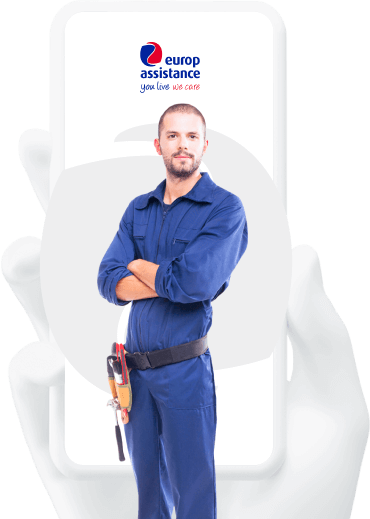
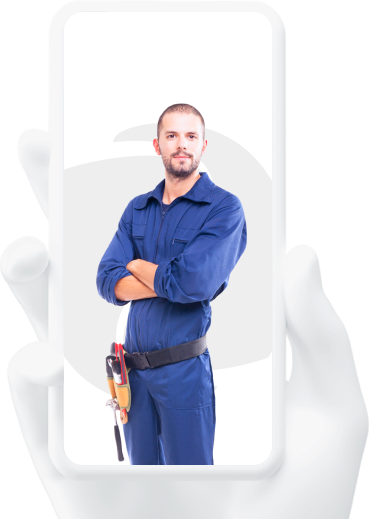
adding plus animation and some refactoring

diff --git a/src/home-help.html b/src/home-help.html
@@ -41,7 +41,7 @@ title: Europe Assistance | Home Help
                     <svg width="31" height="31" viewBox="0 0 31 31" fill="none" xmlns="http://www.w3.org/2000/svg">
                         <path d="M24.671 19.284C24.2696 19.6935 24.0852 20.2857 24.1766 20.8665L25.5544 28.8933C25.6707 29.5737 25.3979 30.2621 24.857 30.6553C24.327 31.0632 23.6218 31.1121 23.0437 30.7858L16.1797 27.0171C15.941 26.8834 15.676 26.8116 15.4048 26.8034H14.9848C14.8391 26.8263 14.6965 26.8752 14.5664 26.9503L7.70075 30.7369C7.36135 30.9164 6.977 30.98 6.6004 30.9164C5.68292 30.7336 5.07074 29.8135 5.22108 28.8428L6.6004 20.8159C6.69183 20.2302 6.50741 19.6347 6.10601 19.2187L0.509691 13.5086C0.0416521 13.0306 -0.121077 12.3127 0.0927954 11.665C0.300468 11.0189 0.830499 10.5475 1.47057 10.4414L9.17306 9.26512C9.75888 9.20149 10.2734 8.82625 10.5369 8.27155L13.9309 0.946253C14.0115 0.783106 14.1154 0.63301 14.2409 0.505756L14.3804 0.391553C14.4532 0.306716 14.5369 0.236563 14.6299 0.179462L14.7988 0.114203L15.0623 0H15.7148C16.2975 0.0636273 16.8105 0.430708 17.0786 0.978882L20.5176 8.27155C20.7655 8.80504 21.2475 9.17539 21.8039 9.26512L29.5064 10.4414C30.1573 10.5393 30.7013 11.0124 30.9167 11.665C31.1197 12.3192 30.9446 13.0371 30.4673 13.5086L24.671 19.284Z" fill="#00239C"/>
                     </svg>
-                    <h2 class="g-heading">Пакет <b>премиум</b></h2>
+                    <h2 class="g-heading">Пакет <b>стандарт</b></h2>
                 </div>
                 <span class="animate__fadeIn animate__animated wow">Информационная поддержка</span>
                 <p class="animate__fadeIn animate__animated wow">Предоставление информации о контактах, часах работы, услугах Управляющей компании в экстренных ситуациях</p>
@@ -74,7 +74,7 @@ title: Europe Assistance | Home Help
                     <svg width="31" height="31" viewBox="0 0 31 31" fill="none" xmlns="http://www.w3.org/2000/svg">
                         <path d="M24.671 19.284C24.2696 19.6935 24.0852 20.2857 24.1766 20.8665L25.5544 28.8933C25.6707 29.5737 25.3979 30.2621 24.857 30.6553C24.327 31.0632 23.6218 31.1121 23.0437 30.7858L16.1797 27.0171C15.941 26.8834 15.676 26.8116 15.4048 26.8034H14.9848C14.8391 26.8263 14.6965 26.8752 14.5664 26.9503L7.70075 30.7369C7.36135 30.9164 6.977 30.98 6.6004 30.9164C5.68292 30.7336 5.07074 29.8135 5.22108 28.8428L6.6004 20.8159C6.69183 20.2302 6.50741 19.6347 6.10601 19.2187L0.509691 13.5086C0.0416521 13.0306 -0.121077 12.3127 0.0927954 11.665C0.300468 11.0189 0.830499 10.5475 1.47057 10.4414L9.17306 9.26512C9.75888 9.20149 10.2734 8.82625 10.5369 8.27155L13.9309 0.946253C14.0115 0.783106 14.1154 0.63301 14.2409 0.505756L14.3804 0.391553C14.4532 0.306716 14.5369 0.236563 14.6299 0.179462L14.7988 0.114203L15.0623 0H15.7148C16.2975 0.0636273 16.8105 0.430708 17.0786 0.978882L20.5176 8.27155C20.7655 8.80504 21.2475 9.17539 21.8039 9.26512L29.5064 10.4414C30.1573 10.5393 30.7013 11.0124 30.9167 11.665C31.1197 12.3192 30.9446 13.0371 30.4673 13.5086L24.671 19.284Z" fill="#E4002B"/>
                     </svg>                        
-                    <h2 class="g-heading">Пакет <b>стандарт</b></h2>
+                    <h2 class="g-heading">Пакет <b>премиум</b></h2>
                 </div>
                 <span class="s-short animate__fadeIn animate__animated wow">
                     Включает все сервисы
@@ -243,7 +243,10 @@ title: Europe Assistance | Home Help
                 </li>
             </ul>
         </div>
-        <img class="mockup__img lozad" data-src="./assets/images/mockup.png" data-srcset=""="./assets/images/mockup@2x.png" alt="mockup">
+        <div class="mockup__img">
+            <img class="mockup__img-hand lozad" data-src="./assets/images/mockup.png" data-srcset=""="./assets/images/mockup@2x.png" alt="mockup">
+            <img class="mockup__img-logo animate__fadeIn animate__animated wow" src="./assets/images/svg/logo.svg" alt="logo">
+        </div>
     </div>
 </section>
 

diff --git a/src/cybersecurity.html b/src/cybersecurity.html
@@ -109,7 +109,8 @@ title: Europe Assistance | Cybersecurity
             </div>
             <p class="services__table-item-wrapper-paragraph animate__fadeIn animate__animated wow">
                 После того как пользователь занес данные в систему, проводится их автоматический регулярный мониторинг не только в видимой сети, но и в глубоком теневом интернете, черном рынке (dark web), куда попадает украденная и скомпрометированная информация, для ее последующего нелегального использования.
-                <br><br>
+            </p>
+            <p class="services__table-item-wrapper-paragraph animate__fadeIn animate__animated wow">
                 Проводится мониторинг сотен хакеров, исследований, новостных сайтов, хакерских форумов и форумов в dark web на предмет утечки данных. Эксперты по компьютерной безопасности постоянно обновляют алгоритмы, интегрируя их с информацией о новейших методах, которыми пользуются киберпреступники
             </p>
         </div>
@@ -123,8 +124,10 @@ title: Europe Assistance | Cybersecurity
             </div>
             <p class="services__table-item-wrapper-paragraph animate__fadeIn animate__animated wow">
                 Если возникает подозрение о попытке несанкционированного доступа к данным клиента либо их обнаружения на черном рынке, клиенту моментально отправляют уведомление по контактам, оставленным во время регистрации, – SMS или письмо на электронную почту – с инструкцией о незамедлительных действиях
-                <br><br>
-                Онлайн-портал показывает оповещения, уровень риска и позволяет добавлять новую персональную информацию для мониторинга</p>
+            </p>
+            <p class="services__table-item-wrapper-paragraph animate__fadeIn animate__animated wow">
+                Если возникает подозрение о попытке несанкционированного доступа к данным клиента либо их обнаружения на черном рынке, клиенту моментально отправляют уведомление по контактам, оставленным во время регистрации, – SMS или письмо на электронную почту – с инструкцией о незамедлительных действиях
+            </p>
         </div>
     </div>
 </section>

diff --git a/src/assets/scss/blocks/accordion.scss b/src/assets/scss/blocks/accordion.scss
@@ -90,6 +90,7 @@
             height: 0.2em;
             background-color: #fff;
             transform: translate(-50%, -50%);
+            transition: .4s;
         }
 
         &:after {
@@ -102,6 +103,7 @@
             background-color: #fff;
             transform: translate(-50%, -50%);
             transition: opacity 0.2s;
+            transition: .4s;
         }
 
         &--open {
@@ -478,6 +480,7 @@
 
                     display: flex;
                     line-height: 120%;
+                    font-weight: 700;
 
                     padding-bottom: 0.5em;
                     margin-bottom: 0.5em;
@@ -506,7 +509,7 @@
                     max-width: 28em;
 
                     @media (max-width: 400px) {
-                        font-size: 14px;
+                        font-size: 18px;
                         font-weight: 500;
                         margin-bottom: 20px;
                     }
@@ -548,9 +551,8 @@
                             line-height: 140%;
                             max-width: 222px;
 
-                            @media (max-width: 1024px) {
-                                max-width: none;
-                            }
+                            @media (max-width: 1024px) { max-width: none }
+                            @media (max-width: 400px) { font-size: 12px }
                         }
                     }
 
@@ -564,6 +566,7 @@
                     &--compact {
                         display: flex;
                         grid-gap: 0 !important;
+                        margin-bottom: 0;
 
                         @media (max-width: 1300px) {
                             display: flex;
@@ -574,7 +577,7 @@
                     &-wrapper {
                         margin-right: 1em;
                         .accordion__item-content-faq-benefits-item {
-                            &:not(:last-child) { margin-bottom: 1.5em }
+                            margin-bottom: 1.5em;
 
                             span { max-width: none }
                             img { margin-top: 0.2em }
@@ -824,6 +827,13 @@
         
         @media (max-width: 768px) {
             font-size: 0.7em;
+        }
+
+        @media (min-width: 1024px) {
+            &:hover {
+                .accordion__icon::before { width: 1.2em }
+                .accordion__icon::after { height: 1.2em }
+            }
         }
     }
 }

diff --git a/src/about.html b/src/about.html
@@ -83,7 +83,7 @@ title: Europe Assistance | About Company
             </a>
         </div>
         <div class="about-benefits__picture">
-            <img class="lozad" data-src="./assets/images/about-worker.png" data-srcset="./assets/images/about-worker.png" alt="">
+            <img class="lozad" data-src="./assets/images/about-worker.png" data-srcset="./assets/images/about-worker@2x.png" alt="">
             <svg width="437" height="485" viewBox="0 0 437 485" fill="none" xmlns="http://www.w3.org/2000/svg">
                 <path d="M397.066 401.561C414.562 377.106 449.554 277.54 432.059 181.468C416.312 85.396 351.579 10.2852 246.607 1.55143C199.367 -3.68886 157.378 5.04499 138.134 17.2723C138.134 17.2723 127.637 24.2593 127.637 32.993C127.637 32.993 236.108 17.2723 281.597 66.1816C321.837 109.851 292.094 162.253 292.094 162.253C274.599 197.189 232.61 239.112 232.61 239.112C232.61 239.112 176.624 293.262 159.128 324.702C150.381 340.424 145.132 356.144 145.132 370.119C145.132 399.814 166.127 412.041 173.125 413.787C232.61 441.736 349.829 419.028 397.066 401.561Z" fill="#E4002B"/>
                 <path d="M39.7591 81.5464C22.2638 106.064 -12.7272 205.886 4.76825 302.206C20.5141 398.526 85.2474 473.829 190.221 482.586C237.459 487.84 279.448 479.084 298.692 466.826C298.692 466.826 309.19 459.82 309.19 451.063C309.19 451.063 200.718 466.826 155.229 417.79C114.99 374.008 144.732 321.47 144.732 321.47C162.227 286.445 204.216 244.415 204.216 244.415C204.216 244.415 260.202 190.125 277.698 158.602C286.445 142.841 291.695 127.079 291.695 113.069C291.695 83.2979 270.699 71.0389 263.701 69.2877C204.216 41.2675 86.9971 64.0338 39.7591 81.5464Z" fill="#00239C"/>

diff --git a/src/assets/scss/blocks/mockup.scss b/src/assets/scss/blocks/mockup.scss
@@ -23,14 +23,47 @@
         margin-top: auto;
         margin-right: 5em;
 
+        position: relative;
+
+        &-hand {
+            width: 18.45em;
+            height: 25.95em;
+        }
+
+        &-logo {
+            position: absolute;
+            left: 48%;
+            top: 7%;
+            transform: translateX(-50%);
+
+            width: 3em;
+            height: 2.55em;
+
+            @media (max-width: 500px) {
+                width: 14.37vw;
+                height: 12.1875vw;
+
+                top: 8%;
+                left: 46%;
+            }
+        }
+
         @media (max-width: 1230px) {
-            margin-right: 2em;
-            margin-left: 2em;
+            margin-right: auto;
+            margin-left: auto;
         }
 
         @media (max-width: 500px) {
             width: 88.125vw;
-            height: 100%;
+            height: 125vw;
+
+            margin-right: auto;
+            margin-left: auto;
+            
+            &-hand {
+                width: 100%;
+                height: 100%;
+            }
         }
     }
 

diff --git a/src/assets/scss/blocks/preview-about.scss b/src/assets/scss/blocks/preview-about.scss
@@ -60,6 +60,7 @@
         &-wrapper {
             display: flex;
             justify-content: space-between;
+            font-size: 0.9em;
 
             &-item {
                 display: flex;
@@ -115,7 +116,7 @@
                 .second-h::after { content: "странах мира" }
 
                 @media (max-width: 768px) {
-                    &:first-child { margin-right: 30% }
+                    &:first-child { margin-right: 25% }
                 }
 
                 @media (max-width: 575px) {
@@ -127,6 +128,7 @@
                 }
             }
 
+            @media (max-width: 1230px) { font-size: 1em; }
             @media (max-width: 768px) { justify-content: start }
         }
 

diff --git a/src/assets/scss/blocks/company-contacts.scss b/src/assets/scss/blocks/company-contacts.scss
@@ -17,6 +17,11 @@
         width: 60%;
         height: 100%;
 
+        .ymaps-2-1-79-gototech {display: none;}
+        .ymaps-2-1-79-gototaxi__container {display: none;}
+        .ymaps-2-1-79-gotoymaps__container {display: none;}
+        .ymaps-2-1-79-copyright__wrap {display: none;}
+
         @media (max-width: 992px) { 
             width: 70%;
             left: 35%;

diff --git a/src/assets/scss/blocks/services.scss b/src/assets/scss/blocks/services.scss
@@ -130,6 +130,8 @@
                     padding: 2.08vw 3.125vw;
                     line-height: 160%;
 
+                    &:last-child {padding-top: 0;}
+
                     @media (max-width: 1024px) {
                         font-size: 1.8vw;
                         padding: 3vw 4vw;

diff --git a/src/layouts/map-layout.html b/src/layouts/map-layout.html
@@ -11,7 +11,8 @@
             //eslint-disable-next-line
             let map = new ymaps.Map('map', {
                 center: center,
-                zoom: 17
+                zoom: 17,
+                controls: []
             });
 
             //eslint-disable-next-line

diff --git a/src/assets/scss/blocks/official-partner.scss b/src/assets/scss/blocks/official-partner.scss
@@ -115,9 +115,7 @@
 
             .g-red-link {
                 margin-top: 45vw;
-                span {
-                    font-size: 12px;
-                }
+                span { font-size: 14px }
             }
         }
     }
